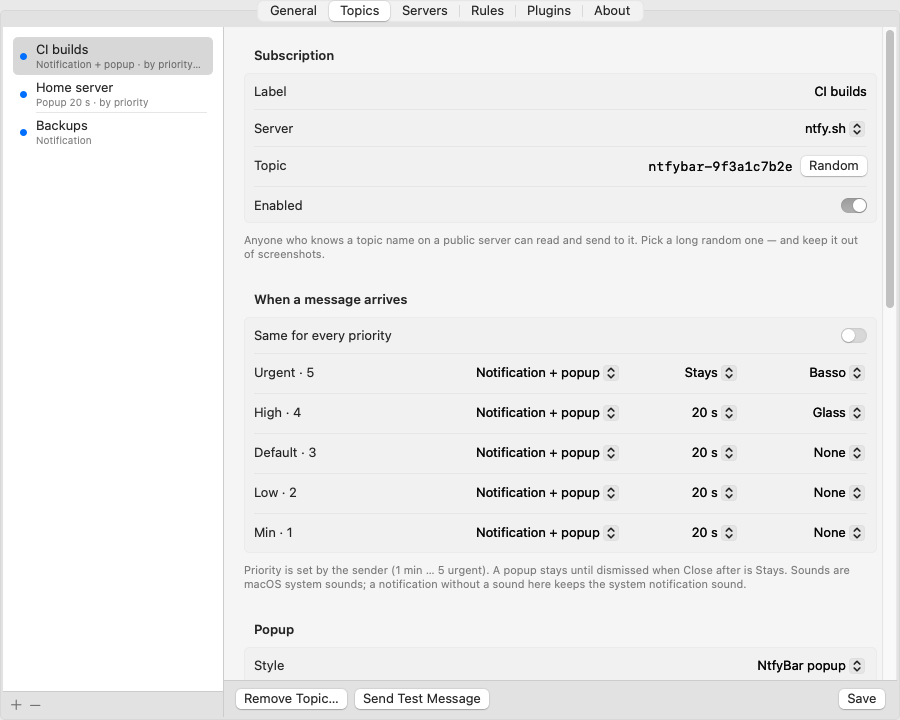
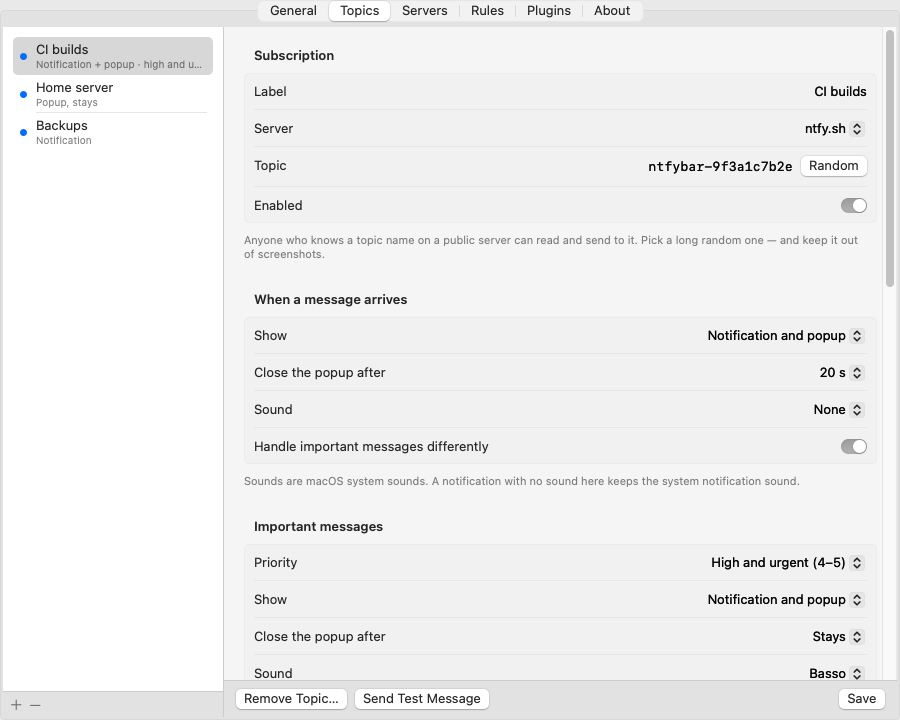
1.4.0: Topics editor shows simple settings first
Claude-Session: https://claude.ai/code/session_01148U6btiYHiK8aQketKwUs

diff --git a/Sources/NtfyBarApp/TopicsTab.swift b/Sources/NtfyBarApp/TopicsTab.swift
@@ -59,25 +59,27 @@ struct TopicsTab: View {
         selection = engine.config.topics.first?.id
     }
 
-    /// The Default band's plan, plus markers — e.g. "Popup 10 s · by priority · 1 rule".
+    /// The Default band's plan, plus the important one or markers — e.g. "Popup 10 s · high and up: Popup, stays · 1 rule".
     private func planSummary(_ t: TopicConfig) -> String {
-        let b = t.band(3)
-        let popup = t.popup.card.map { cardName($0, engine) } ?? (b.timeoutSec == 0 ? "Popup, stays" : "Popup \(durationLabel(b.timeoutSec))")
-        var s = switch b.show {
-        case .nothing: "Nothing"
-        case .notification: "Notification"
-        case .popup: popup
-        case .both: t.popup.card == nil ? "Notification + popup" : popup + " + notification"
+        func plan(_ b: AlertBand) -> String {
+            let popup = t.popup.card.map { cardName($0, engine) } ?? (b.timeoutSec == 0 ? "Popup, stays" : "Popup \(durationLabel(b.timeoutSec))")
+            return switch b.show {
+            case .nothing: "Nothing"
+            case .notification: "Notification"
+            case .popup: popup
+            case .both: t.popup.card == nil ? "Notification + popup" : popup + " + notification"
+            }
         }
-        if t.bandsDiffer { s += " · by priority" }
+        var s = switch t.planShape {
+        case .same: plan(t.band(3))
+        case .important(minPriority: 4): "\(plan(t.band(3))) · high and up: \(plan(t.band(5)))"
+        case .important: "\(plan(t.band(3))) · urgent: \(plan(t.band(5)))"
+        case .custom: "\(plan(t.band(3))) · by priority"
+        }
         let n = rulesTouching(t.id, engine).count
         if n > 0 { s += " · \(n) rule\(n == 1 ? "" : "s")" }
         return s
     }
-}
-
-extension TopicConfig {
-    fileprivate var bandsDiffer: Bool { alerts.values.contains { $0 != band(3) } }
 }
 
 /// "Stays", "10 s", "2 min".
@@ -107,7 +109,8 @@ struct TopicEditor: View {
     @State private var error: String?
     @State private var status: String?
     @State private var commandOn = false
-    @State private var sameForAll = false
+    @State private var mode = TopicConfig.PlanShape.same
+    @State private var confirmSimplify = false
 
     private static let timeouts = [0, 5, 10, 15, 20, 30, 60, 120, 300]
     private static let sounds = ["Basso", "Blow", "Bottle", "Frog", "Funk", "Glass", "Hero", "Morse", "Ping", "Pop", "Purr", "Sosumi",
@@ -137,16 +140,37 @@ struct TopicEditor: View {
                     FormFooter("Anyone who knows a topic name on a public server can read and send to it. Pick a long random one — and keep it out of screenshots.")
                 }
 
-                Section {
-                    Toggle("Same for every priority", isOn: Binding(get: { sameForAll }, set: { on in
-                        sameForAll = on
-                        if on { setBand(3, draft.band(3)) }  // copies the Default row to all five
-                    }))
-                    ForEach(sameForAll ? [3] : TopicConfig.priorities, id: \.self) { p in bandRow(p) }
-                } header: {
-                    Text("When a message arrives")
-                } footer: {
-                    FormFooter("Priority is set by the sender (1 min … 5 urgent). A popup stays until dismissed when Close after is Stays. Sounds are macOS system sounds; a notification without a sound here keeps the system notification sound.")
+                if mode == .custom {
+                    Section {
+                        LabeledContent("Custom per priority") { Button("Use simple settings…") { confirmSimplify = true } }
+                        ForEach(TopicConfig.priorities, id: \.self) { p in bandRow(p) }
+                    } header: {
+                        Text("When a message arrives")
+                    } footer: {
+                        FormFooter("Each priority has its own row (the sender sets it: ntfy header Priority: 1–5). Use simple settings… replaces the rows with one plan plus one for important messages.")
+                    }
+                } else {
+                    Section {
+                        planRows(Binding(get: { draft.band(3) }, set: { setGroup(important: false, $0) }))
+                        Toggle("Handle important messages differently", isOn: importantOn)
+                    } header: {
+                        Text("When a message arrives")
+                    } footer: {
+                        FormFooter("Sounds are macOS system sounds. A notification with no sound here keeps the system notification sound.")
+                    }
+                    if importantOn.wrappedValue {
+                        Section {
+                            Picker("Priority", selection: Binding(get: { threshold }, set: setThreshold)) {
+                                Text("High and urgent (4–5)").tag(4)
+                                Text("Urgent only (5)").tag(5)
+                            }
+                            planRows(Binding(get: { draft.band(5) }, set: { setGroup(important: true, $0) }))
+                        } header: {
+                            Text("Important messages")
+                        } footer: {
+                            FormFooter("The sender sets the priority (ntfy header Priority: 1–5). For important messages these rows replace the ones above.")
+                        }
+                    }
                 }
 
                 if draft.popsUpSomewhere {
@@ -252,11 +276,17 @@ struct TopicEditor: View {
         }
         .onAppear {
             commandOn = draft.command != nil
-            sameForAll = !draft.bandsDiffer
+            mode = draft.planShape
         }
         .onChange(of: commandOn) { _, on in
             if on && draft.command == nil { draft.command = CommandSettings(command: "") }
             if !on { draft.command = nil }
+        }
+        .alert("Replace the five rows?", isPresented: $confirmSimplify) {
+            Button("Replace") { setThreshold(4) }
+            Button("Cancel", role: .cancel) {}
+        } message: {
+            Text("Priorities 3, 2 and 1 will use the Default row; 5 and 4 will use the Urgent row. Nothing is saved until you click Save.")
         }
     }
 
@@ -264,50 +294,80 @@ struct TopicEditor: View {
         Binding(get: { draft.command?.command ?? "" }, set: { draft.command?.command = $0 })
     }
 
-    /// One plan row: what you see, when a popup closes, which sound. Under "Same for every priority" it is
-    /// the Default band, written to all five.
+    /// The first important priority; 6 while the switch is off, so every band is "base".
+    private var threshold: Int { if case let .important(t) = mode { t } else { 6 } }
+
+    private var importantOn: Binding<Bool> {
+        Binding(get: { if case .important = mode { true } else { false } }, set: { on in
+            if on {
+                mode = .important(minPriority: 4)
+                // The 1.3 urgent default, as one group: stays, Basso unless the plan already has a sound.
+                var b = draft.band(3)
+                b.timeoutSec = 0
+                b.sound = b.sound ?? "Basso"
+                setGroup(important: true, b)
+            } else {
+                mode = .same
+                setGroup(important: false, draft.band(3))
+            }
+        })
+    }
+
+    /// Also "Use simple settings…" (4): the Default row for the bands below, the Urgent row from there up.
+    private func setThreshold(_ t: Int) {
+        mode = .important(minPriority: t)
+        setGroup(important: false, draft.band(3))
+        setGroup(important: true, draft.band(5))
+    }
+
+    private func setGroup(important: Bool, _ b: AlertBand) {
+        for p in 1...5 where (p >= threshold) == important { draft.alerts[String(p)] = b }
+    }
+
+    /// Show, Close the popup after, Sound — for the base plan or the important one.
+    @ViewBuilder
+    private func planRows(_ band: Binding<AlertBand>) -> some View {
+        Picker("Show", selection: band.show) { showItems }
+        if band.wrappedValue.showsPopup && draft.popup.card == nil {  // a card decides its own timing
+            Picker("Close the popup after", selection: band.timeoutSec) { timeoutItems(band.wrappedValue.timeoutSec) }
+        }
+        Picker("Sound", selection: band.sound) { soundItems(band.wrappedValue.sound) }
+    }
+
+    @ViewBuilder
+    private var showItems: some View {
+        Text("Nothing").tag(AlertBand.Show.nothing)
+        Text("A macOS notification").tag(AlertBand.Show.notification)
+        Text("NtfyBar's popup").tag(AlertBand.Show.popup)
+        Text("Notification and popup").tag(AlertBand.Show.both)
+    }
+
+    private func timeoutItems(_ current: Int) -> some View {
+        ForEach(Self.timeouts.contains(current) ? Self.timeouts : Self.timeouts + [current], id: \.self) { Text(durationLabel($0)).tag($0) }
+    }
+
+    @ViewBuilder
+    private func soundItems(_ current: String?) -> some View {
+        Text("None").tag(String?.none)
+        if let current, !Self.sounds.contains(current) { Text(current).tag(String?.some(current)) }
+        ForEach(Self.sounds, id: \.self) { Text($0).tag(String?.some($0)) }
+    }
+
+    /// One row of the Custom per priority table: what you see, when a popup closes, which sound.
     private func bandRow(_ p: Int) -> some View {
-        let band = Binding(get: { draft.band(p) }, set: { setBand(p, $0) })
-        let word = sameForAll ? "Any priority" : "\(PopupContent.priorityInfo(p).word) · \(p)"
-        let timeouts = Self.timeouts.contains(band.wrappedValue.timeoutSec) ? Self.timeouts : Self.timeouts + [band.wrappedValue.timeoutSec]
-        let sound = band.wrappedValue.sound
-        return LabeledContent(word) {
+        let band = Binding(get: { draft.band(p) }, set: { draft.alerts[String(p)] = $0 })
+        return LabeledContent("\(PopupContent.priorityInfo(p).word) · \(p)") {
             HStack(spacing: 8) {
-                Picker("Show", selection: Binding(get: { band.wrappedValue.show }, set: { show in
-                    var b = band.wrappedValue
-                    // Switching to a popup gives the familiar 1.3 defaults: urgent stays, Basso / Glass for urgent / high.
-                    if !b.showsPopup, show == .popup || show == .both, b.sound == nil {
-                        b.sound = ["5": "Basso", "4": "Glass"][String(p)]
-                        b.timeoutSec = p == 5 ? 0 : 20
-                    }
-                    b.show = show
-                    band.wrappedValue = b
-                })) {
-                    Text("Nothing").tag(AlertBand.Show.nothing)
-                    Text("Notification").tag(AlertBand.Show.notification)
-                    Text("Popup").tag(AlertBand.Show.popup)
-                    Text("Notification + popup").tag(AlertBand.Show.both)
-                }
-                .labelsHidden().frame(width: 190, alignment: .trailing)
-                Picker("Close after", selection: band.timeoutSec) {
-                    ForEach(timeouts, id: \.self) { Text(durationLabel($0)).tag($0) }
-                }
-                .labelsHidden().frame(width: 110, alignment: .trailing)
-                .disabled(!band.wrappedValue.showsPopup || draft.popup.card != nil)  // a card decides its own timing
-                Picker("Sound", selection: band.sound) {
-                    Text("None").tag(String?.none)
-                    if let sound, !Self.sounds.contains(sound) { Text(sound).tag(String?.some(sound)) }
-                    ForEach(Self.sounds, id: \.self) { Text($0).tag(String?.some($0)) }
-                }
-                .labelsHidden().frame(width: 120, alignment: .trailing)
-                .disabled(band.wrappedValue.show == .nothing)
+                Picker("Show", selection: band.show) { showItems }
+                    .labelsHidden().frame(width: 190, alignment: .trailing)
+                Picker("Close after", selection: band.timeoutSec) { timeoutItems(band.wrappedValue.timeoutSec) }
+                    .labelsHidden().frame(width: 110, alignment: .trailing)
+                    .disabled(!band.wrappedValue.showsPopup || draft.popup.card != nil)  // a card decides its own timing
+                Picker("Sound", selection: band.sound) { soundItems(band.wrappedValue.sound) }
+                    .labelsHidden().frame(width: 120, alignment: .trailing)
             }
         }
         .help("Priority as the sender set it (ntfy header Priority: 1–5).")
-    }
-
-    private func setBand(_ p: Int, _ band: AlertBand) {
-        for k in sameForAll ? TopicConfig.priorities : [p] { draft.alerts[String(k)] = band }
     }
 
     /// Plugin cards on offer: actions of active plugins that declare a popup.

diff --git a/Sources/NtfyBarApp/Renderer.swift b/Sources/NtfyBarApp/Renderer.swift
@@ -34,11 +34,13 @@ enum Renderer {
                 .frame(width: 500, height: 560).background(windowBackground))
         default:
             let tab = ProcessInfo.processInfo.environment["NTFYBAR_RENDER_TAB"] ?? "topics"
+            let topics = model.engine.config.topics
+            let topic = ProcessInfo.processInfo.environment["NTFYBAR_RENDER_TOPIC"].flatMap { l in topics.first { $0.label == l } } ?? topics.first
             if tab == "consent", let pkg = model.engine.pluginPackages.first(where: { $0.manifest != nil }) {
                 view = AnyView(ConsentSheet(request: ConsentRequest(kind: .package(pkg)), onAllow: {}, onCancel: {}).background(windowBackground))
-            } else if tab == "topics-tall", let t = model.engine.config.topics.first {  // the whole editor, unscrolled
+            } else if tab == "topics-tall", let t = topic {  // the whole editor, unscrolled
                 view = AnyView(TopicEditor(model: model, engine: model.engine, draft: t, isNew: false, onRemove: {}) { _ in }
-                    .frame(width: 680, height: 1400).background(windowBackground))
+                    .frame(width: 680, height: 1700).background(windowBackground))
             } else if tab == "rules-tall", let r = model.engine.rules.rules.first {
                 view = AnyView(RuleEditor(engine: model.engine, draft: r, onRemove: {}) { _ in }.frame(width: 680, height: 1400)
                     .background(windowBackground))
@@ -103,10 +105,10 @@ enum DemoData {
         let selfHosted = ServerConfig(url: "https://ntfy.example.com", auth: .token("tk_demo"))
         c.servers.append(selfHosted)
         var b = TopicConfig(id: builds, serverId: c.servers[0].id, topic: "ntfybar-9f3a1c7b2e", label: "CI builds")
-        b.alerts = bands(.both, ["5": (0, "Basso"), "4": (20, "Glass")])
+        b.alerts = bands(.both, ["5": (0, "Basso"), "4": (0, "Basso")])
         b.command = CommandSettings(command: "say \"$NTFY_TITLE\"")
         var h = TopicConfig(id: home, serverId: selfHosted.id, topic: "ntfybar-4c81d0e6a2", label: "Home server")
-        h.alerts = bands(.popup, ["5": (0, "Sosumi"), "4": (0, "Glass")])
+        h.alerts = TopicConfig.defaultAlerts.mapValues { _ in AlertBand(show: .popup, timeoutSec: 0, sound: "Sosumi") }
         h.popup.level = .overFullScreen
         let k = TopicConfig(id: backups, serverId: c.servers[0].id, topic: "ntfybar-7b3e95f0c1", label: "Backups")
         c.topics = [b, h, k]

diff --git a/Tests/NtfyBarCoreTests/ConfigTests.swift b/Tests/NtfyBarCoreTests/ConfigTests.swift
@@ -172,6 +172,39 @@ struct ConfigTests {
         #expect(try topic(#"{"notify":true,"soundOverride":"","popup":{"enabled":true}}"#).band(5).sound == nil)
     }
 
+    // MARK: plan shape
+
+    func bands(_ b: (Int) -> AlertBand) -> TopicConfig {
+        var t = TopicConfig(serverId: UUID(), topic: "ntfybar-9f3a1c7b2e", label: "T")
+        for p in 1...5 { t.alerts[String(p)] = b(p) }
+        return t
+    }
+
+    @Test func planShapeIgnoresTimeoutWithoutPopup() throws {
+        let t = try topic(#"{"notify":true}"#)
+        #expect(t.band(5) != t.band(3))  // urgent's timeout 0 is noise without a popup
+        #expect(t.planShape == .same)
+    }
+
+    @Test func planShapeTwoGroups() {
+        let nas = bands { $0 >= 4 ? AlertBand(show: .popup, timeoutSec: 0, sound: "Basso") : AlertBand(show: .popup, timeoutSec: 10) }
+        #expect(nas.planShape == .important(minPriority: 4))
+        let github = bands { $0 == 5 ? AlertBand(show: .popup, timeoutSec: 0) : AlertBand(show: .popup, timeoutSec: 10) }
+        #expect(github.planShape == .important(minPriority: 5))
+    }
+
+    @Test func planShapeCustom() {
+        let pair = bands { AlertBand(show: .popup, timeoutSec: 0, sound: ["5": "Basso", "4": "Glass"][String($0)]) }
+        #expect(pair.planShape == .custom)
+        let fromThree = bands { $0 >= 3 ? AlertBand(show: .popup, timeoutSec: 0) : AlertBand(show: .popup, timeoutSec: 10) }
+        #expect(fromThree.planShape == .custom)
+    }
+
+    @Test func effectiveKeepsSoundForNothing() {
+        #expect(AlertBand(show: .nothing, sound: "Basso").effective.sound == "Basso")
+        #expect(AlertBand(show: .nothing, timeoutSec: 30).effective.timeoutSec == 0)
+    }
+
     @Test func schemaVersionDefaultsToOneWhenAbsent() throws {
         #expect(try JSONDecoder().decode(Config.self, from: Data("{}".utf8)).schemaVersion == 1)
         #expect(Config().schemaVersion == 2)

diff --git a/Sources/NtfyBarCore/Config/Config.swift b/Sources/NtfyBarCore/Config/Config.swift
@@ -151,6 +151,8 @@ public struct AlertBand: Codable, Equatable, Sendable {
 
     public var showsNotification: Bool { show == .notification || show == .both }
     public var showsPopup: Bool { show == .popup || show == .both }
+    /// What the runtime reads for this `show`: the timeout only with a popup. Sound always plays.
+    public var effective: AlertBand { AlertBand(show: show, timeoutSec: showsPopup ? timeoutSec : 0, sound: sound) }
 
     /// The 1.3 topic toggles as five bands — exactly what the 1.3 Dispatcher did per priority.
     public static func expand(notify: Bool, popup: PopupSettings, soundOverride: String?) -> [String: AlertBand] {
@@ -323,6 +325,20 @@ public struct TopicConfig: Codable, Equatable, Identifiable, Sendable {
     /// A catch-up summary notification is posted when any band notifies.
     public var notifiesSomewhere: Bool { alerts.values.contains(where: \.showsNotification) }
     public var popsUpSomewhere: Bool { alerts.values.contains(where: \.showsPopup) }
+
+    public enum PlanShape: Equatable, Sendable { case same, important(minPriority: Int), custom }
+    public static let importantThresholds = [4, 5]
+
+    /// How the five bands read: one plan, one plan plus one for priority ≥ 4 or ≥ 5, or anything else.
+    public var planShape: PlanShape {
+        let e = (1...5).map { band($0).effective }  // e[p - 1]
+        if e.allSatisfy({ $0 == e[0] }) { return .same }
+        for t in Self.importantThresholds
+        where e[(t - 1)...].allSatisfy({ $0 == e[4] }) && e[..<(t - 1)].allSatisfy({ $0 == e[0] }) {
+            return .important(minPriority: t)
+        }
+        return .custom
+    }
 
     /// ntfy topic names: a comma would subscribe a second topic, `/` or `?` would inject into the URL path.
     public static func isValidTopicName(_ name: String) -> Bool {

diff --git a/Tests/NtfyBarCoreTests/MigrationTests.swift b/Tests/NtfyBarCoreTests/MigrationTests.swift
@@ -155,6 +155,13 @@ struct MigrationTests {
         }
         #expect(t("Clipboard") == f.config.topic(f.ids["Clipboard"]!)!)
         for label in ["Personal", "Work", "Meetings", "Agents"] { #expect(t(label) == f.config.topic(f.ids[label]!)!) }
+
+        // How the editor shows each: one plan, a plan plus important messages, or the five-row table.
+        for label in ["NAS", "Monitoring"] { #expect(t(label).planShape == .important(minPriority: 4), "\(label)") }
+        #expect(t("GitHub").planShape == .important(minPriority: 5))
+        for o in out.config.topics where o.label.hasPrefix("Old") { #expect(o.planShape == .same) }
+        for label in ["Public", "Clipboard", "Meetings", "Agents"] { #expect(t(label).planShape == .same, "\(label)") }
+        for label in ["Personal", "Work"] { #expect(t(label).planShape == .custom, "\(label)") }
     }
 
     @Test func runtimeEquivalence() {

diff --git a/CHANGELOG.md b/CHANGELOG.md
@@ -7,7 +7,7 @@ uses [Semantic Versioning](https://semver.org/).
 ## [1.4.0] - 2026-10-25
 
 ### Added
-- One plan per topic: **Settings › Topics** shows a row per priority (Urgent … Min) with what you see (nothing, notification, popup, both), when a popup closes (Stays, 5 s … 5 min) and which sound plays, plus **Same for every priority**.
+- One plan per topic: **Settings › Topics** shows what you see (nothing, notification, popup, both), when a popup closes (Stays, 5 s … 5 min) and which sound plays — one plan for every priority and, behind one switch (**Handle important messages differently**), a second one for important messages (priority 4 and up, or urgent only); the five-row table appears only for a plan that fits neither, with a one-click way back (**Use simple settings…**).
 - A plugin card (Alert Card, ACK Button, …) can be a topic's popup style, with its parameters in the topic editor.
 - The topic editor lists the rules that also apply to the topic, marked **Also** or **Instead**; the sidebar sums up each topic's plan.
 - Rules say **Also do the actions below** or **Instead of the topic's plan**, and the rule list shows each rule's topics.
@@ -17,7 +17,7 @@ uses [Semantic Versioning](https://semver.org/).
 ### Changed
 - `config.json` topic shape: `alerts` (per priority) and `popup` as a style (`level`, `position`, `showCopy`, `showOpen`, optional `card`). Topics with the 1.3 keys are still read and are rewritten in the new shape on the next save.
 - The first launch of 1.4 folds rules that only set a priority band's popup, sound or notification into the topic plans, once. The previous files are kept as `config.pre-1.4.json` and `rules.pre-1.4.json` and one notification says how many rules moved. Every other rule is kept as it was. To go back to 1.3.1, restore those two files.
-- A rule's **Show popup** without its own timeout uses the priority row's **Close after**; a rule popup with its own timeout no longer stays for urgent messages (1.3 applied the topic's "urgent stays" to it).
+- A rule's **Show popup** without its own timeout uses the topic plan's **Close the popup after** for that priority; a rule popup with its own timeout no longer stays for urgent messages (1.3 applied the topic's "urgent stays" to it).
 - The "N messages while you were away" summary now comes for every topic whose plan shows anything (notification, popup or card), not only for topics with notifications on; a topic set to **Nothing** for every priority stays quiet.
 - Quiet hours are named **Quiet hours for sending** and say that incoming messages are not affected.
 - The rule action `builtin.ignore` is shown as **Skip the topic's plan** (same id).

diff --git a/README.md b/README.md
@@ -81,7 +81,8 @@ Move `dist/NtfyBar.app` to `/Applications` and open it from there. More in the
 1. Click the bell in the menu bar → **Settings… › Topics › +**.
 2. Give the topic a label, pick the server and enter the topic name — the same one you use in the
    ntfy phone app or in your scripts. **Random** makes an unguessable one.
-3. Set the plan: for each priority what you see, how long a popup stays, which sound. Then **Save** and
+3. Set the plan: what you see, how long a popup stays and which sound; switch on **Handle important messages
+   differently** for priority 4 and up. Then **Save** and
    **Send Test Message** (it shows on your other devices — NtfyBar ignores its own messages).
 4. Send yourself something:
 
